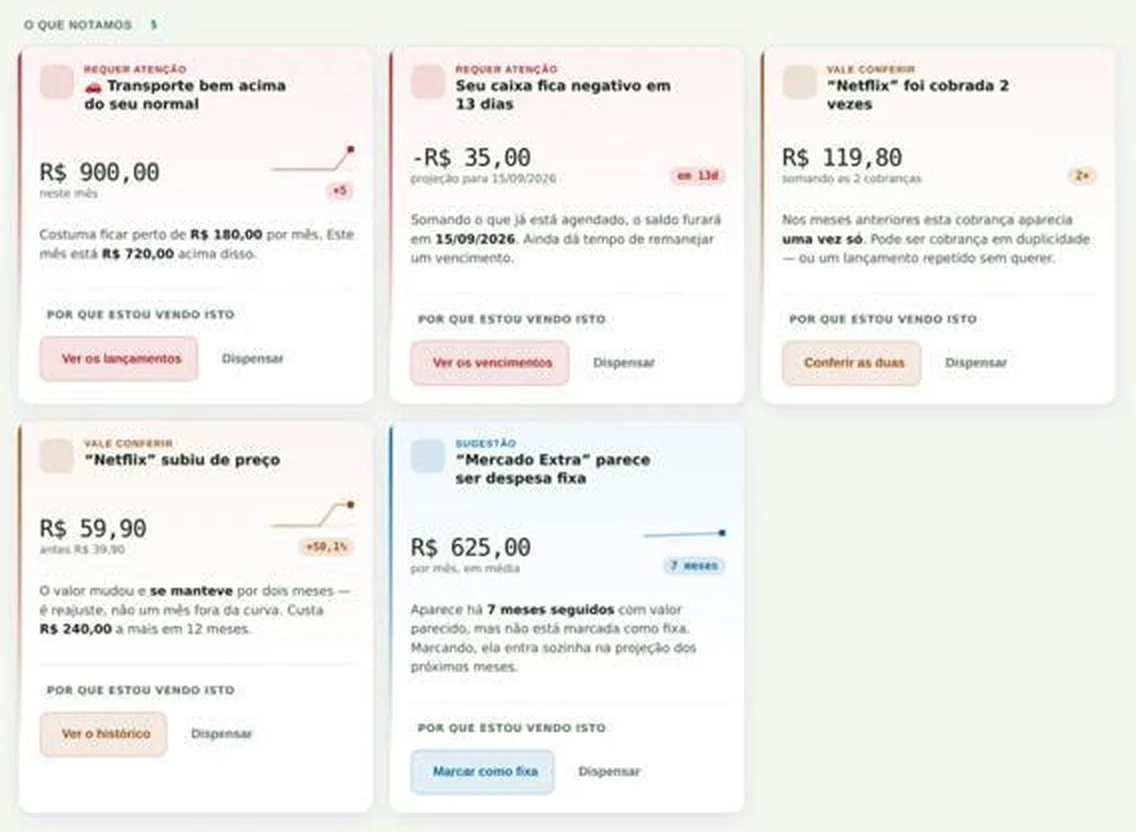
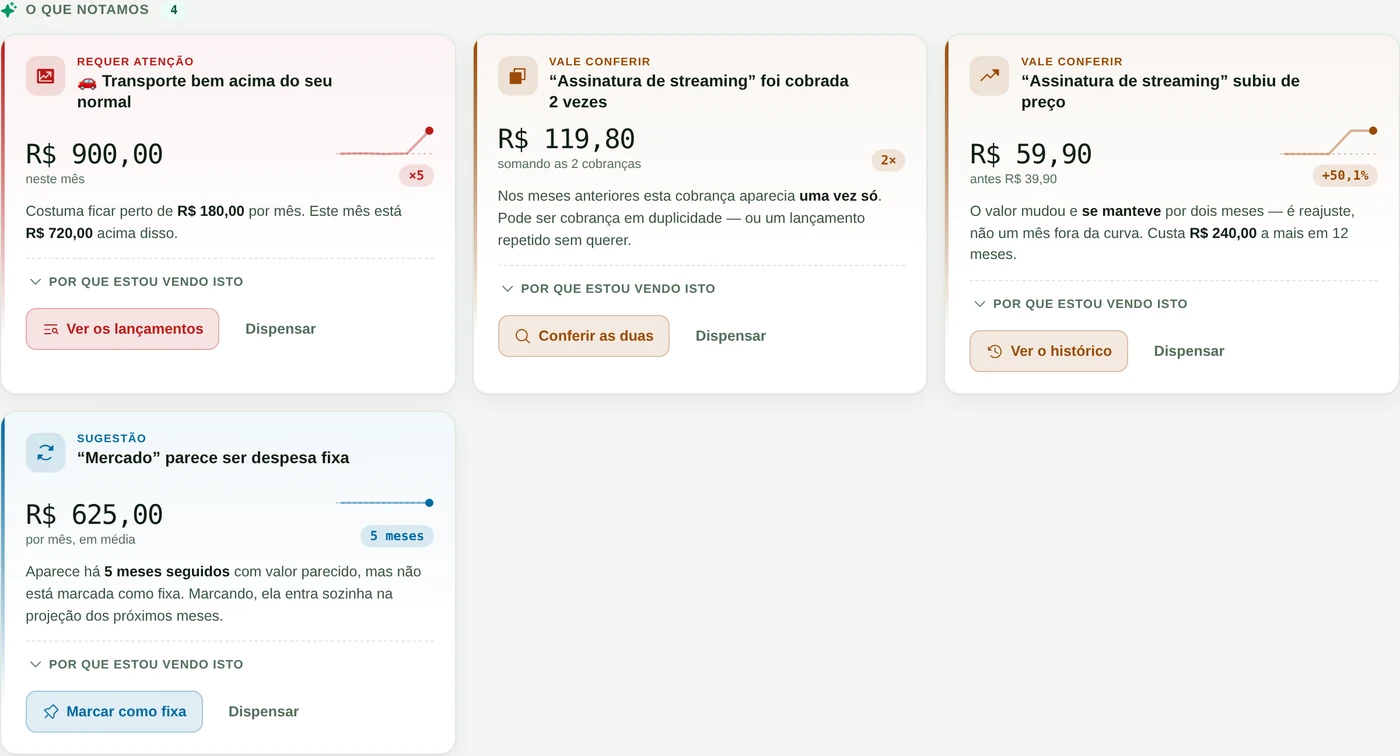
feat: prints do Controle e dos insights tirados do app rodando, não recortados de foto
Os dois prints que faltavam saíram do app de verdade: servidor estático na
raiz do repo, Chromium com a saída de rede FECHADA para tudo o que não seja
fonte — o SDK do Firebase é abortado, então nada toca produção e o app roda
100% local, lendo localStorage. Chart.js e Phosphor vêm do node_modules
porque os CDNs estão fora da política de saída deste ambiente; mesma versão,
mesmo conteúdo.

controle-financeiro.webp — setembro/2026, o mês corrente. Os números não
foram escritos: são o que o motor calculou a partir de cinco meses de
lançamentos de demonstração. O saldo trazido (R$ 14.222,00) sai de
resultadoAcumuladoAteMes, a régua dos 60% sai da receita do mês, e os dois
cards de "O que notamos" são o que appliquei-insights.js concluiu — uma
assinatura que reajustou e se manteve, e um transporte estável demais para
ser variável. O recorte é medido pelo container, não pela seção: colado no
#controle, o "C" de "Controle" encostava na borda.

insights-controle.webp — o print anterior era um recorte de foto de celular,
591px de largura, esticado. Este é nativo, com quatro detectores diferentes
na tela: anomalia, cobrança repetida, reajuste e recorrência não marcada.

Duas escolhas de dado: nome de estabelecimento é genérico ("Mercado",
"Assinaturas de streaming") — marca de terceiro em peça de marketing não vale
o risco; e a despesa variável VARIA, porque valor idêntico por cinco meses o
motor classifica como despesa fixa não marcada, com razão, e a tela enchia de
[…]

diff --git a/landing.html b/landing.html
@@ -565,9 +565,9 @@
      700px desce para baixo dela, porque ali a principal já encolheu para
      224px e encavalar taparia justamente os números que se quer mostrar. */
   .hero-arte { position: relative; }
-  .hero-shot-2 { position: absolute; left: -18px; bottom: 16px; width: 46%; z-index: 2; border-radius: 12px; }
+  .hero-shot-2 { position: absolute; left: -18px; bottom: 16px; width: 38%; z-index: 2; border-radius: 12px; }
   .hero-shot-2 img { display: block; width: 100%; height: auto; }
-  @media (max-width: 880px) { .hero-shot-2 { left: 0; bottom: 12px; width: 44%; } }
+  @media (max-width: 880px) { .hero-shot-2 { left: 0; bottom: 12px; width: 40%; } }
   /* Encolhida para os 224px da captura de telefone, a tela de desktop vira
      textura — o mesmo defeito que tirou o mockup do hero. Em vez de a
      mostrar inteira e ilegível, recorta-se o canto onde estão os números
@@ -698,7 +698,7 @@
              metade da promessa. Sozinha, a tela de investimentos deixava
              essa metade só no texto. -->
         <div class="shot hero-shot-2">
-          <img src="prints/controle-financeiro.webp" width="1200" height="900" alt="Tela Controle financeiro da Appliquei: saldo livre do mês, receitas e despesas lançadas e a régua da regra dos 60%." decoding="async">
+          <img src="prints/controle-financeiro.webp" width="1400" height="1325" alt="Tela Controle financeiro da Appliquei: saldo livre do mês, receitas e despesas lançadas e a régua da regra dos 60%." decoding="async">
         </div>
       </div>
       <div class="shot-legenda"><i class="ph-fill ph-camera"></i> Telas reais da Appliquei. Dados de demonstração.</div>
@@ -797,7 +797,7 @@
           </ul>
         </div>
         <figure class="ato-fig">
-          <img src="prints/controle-financeiro.webp" width="1200" height="900" alt="Tela Controle financeiro da Appliquei com saldo livre do mês, receitas, despesas e a régua da regra dos 60%." loading="lazy" decoding="async">
+          <img src="prints/controle-financeiro.webp" width="1400" height="1325" alt="Tela Controle financeiro da Appliquei com saldo livre do mês, receitas, despesas e a régua da regra dos 60%." loading="lazy" decoding="async">
         </figure>
         <div class="ato-legenda"><i class="ph-fill ph-camera"></i> Tela real da Appliquei. Dados de demonstração.</div>
       </article>
@@ -925,7 +925,7 @@
     </div>
     <figure class="inteligente-fig">
       <div class="shot">
-        <img src="prints/insights-controle.webp" width="1136" height="832" alt="Painel O que notamos dentro do Controle financeiro da Appliquei, com cinco avisos: transporte acima do normal, caixa negativo em 13 dias, cobrança duplicada, assinatura reajustada e uma despesa que parece fixa." loading="lazy" decoding="async">
+        <img src="prints/insights-controle.webp" width="1400" height="756" alt="Painel O que notamos dentro do Controle financeiro da Appliquei, com quatro avisos: transporte bem acima do normal do mês, uma assinatura cobrada duas vezes, a mesma assinatura reajustada, e uma despesa avulsa que se repete há cinco meses." loading="lazy" decoding="async">
       </div>
       <figcaption class="shot-legenda"><i class="ph-fill ph-camera"></i> Tela real da Appliquei. Dados de demonstração.</figcaption>
     </figure>
